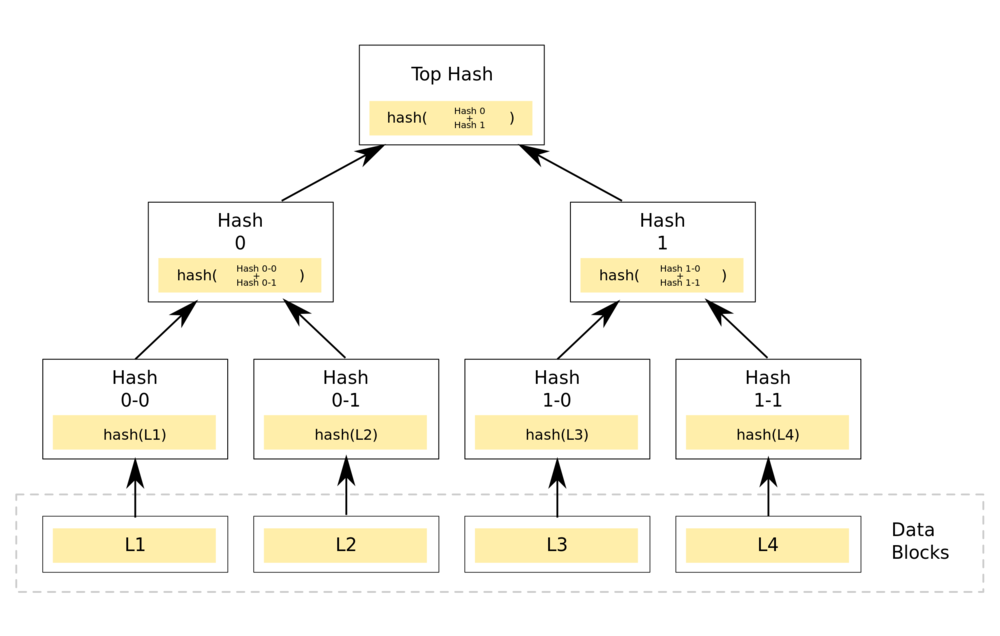
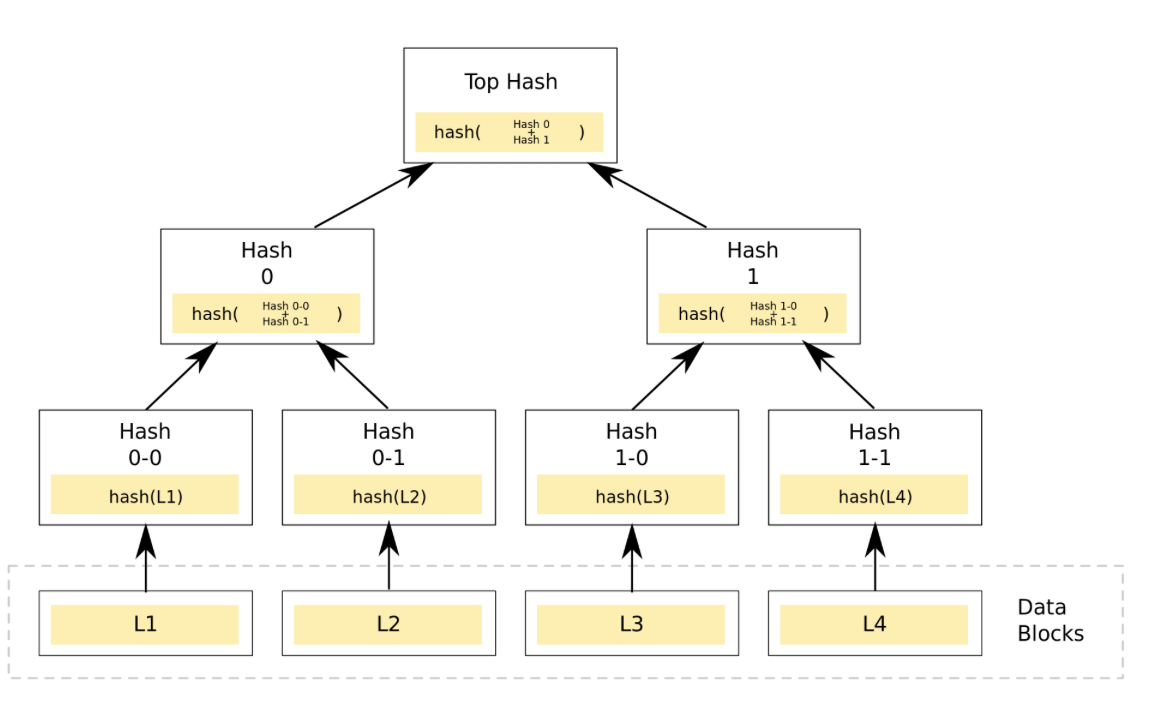
Updated Image

diff --git a/README.md b/README.md
@@ -2,7 +2,7 @@
 <br />
 <p align="center">
   <a>
-    <img src="images/merkleTree.png" alt="Merkle Tree" width="500" height="350">
+    <img src="images/merkleTree.png" alt="Merkle Tree" width="550" height="350">
   </a>
   <h3 align="center">Bitcoin Merkle Tree</h3>
   <p align="center">
